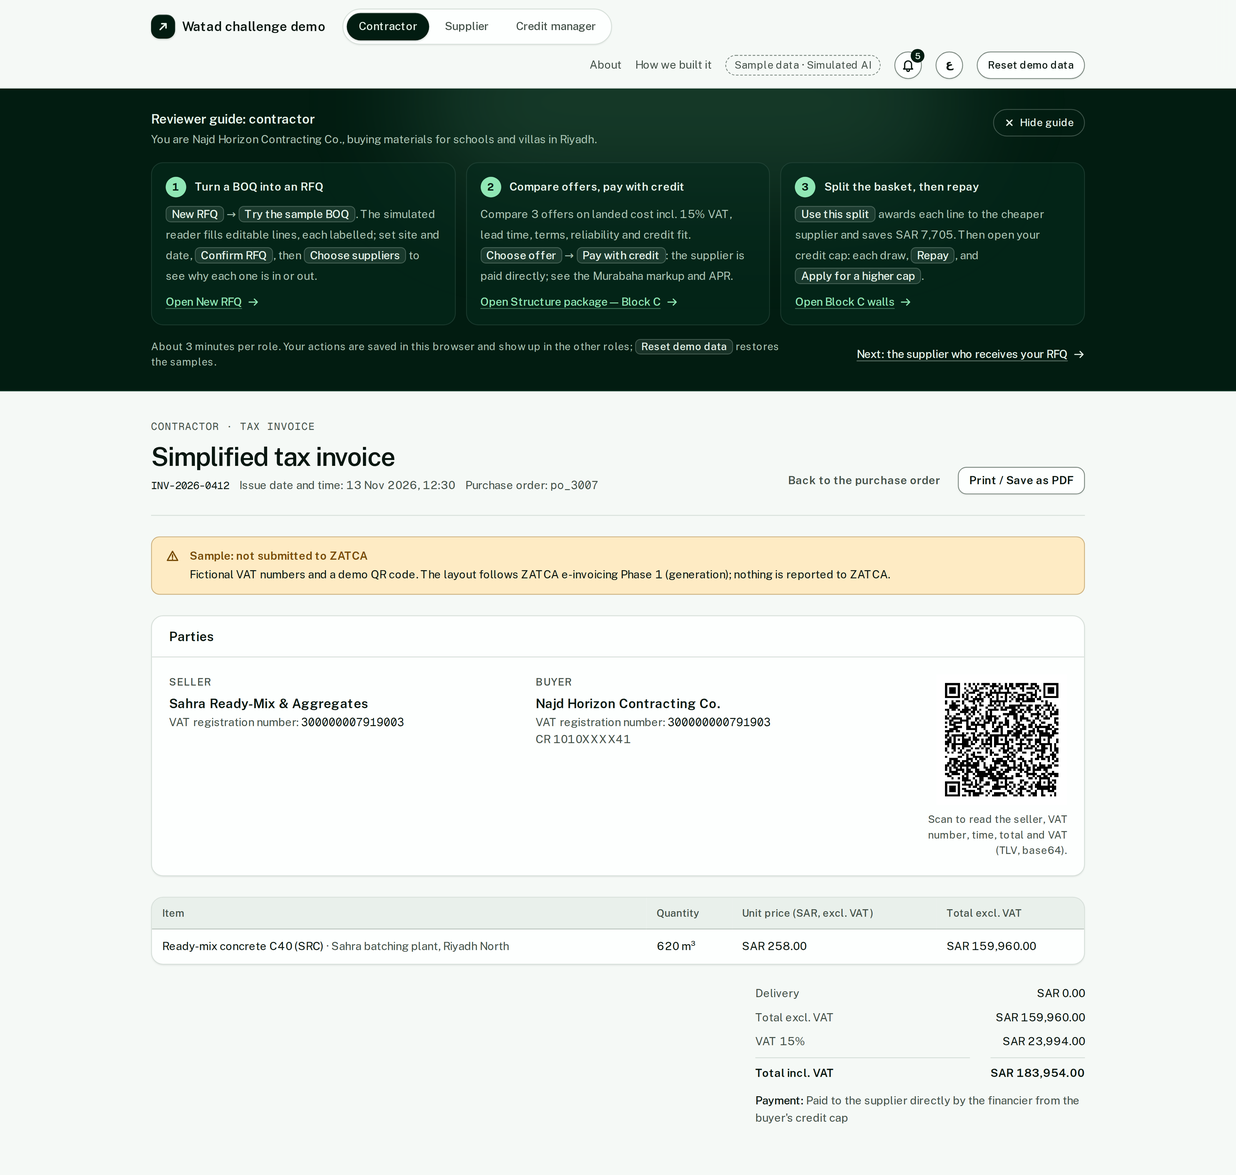
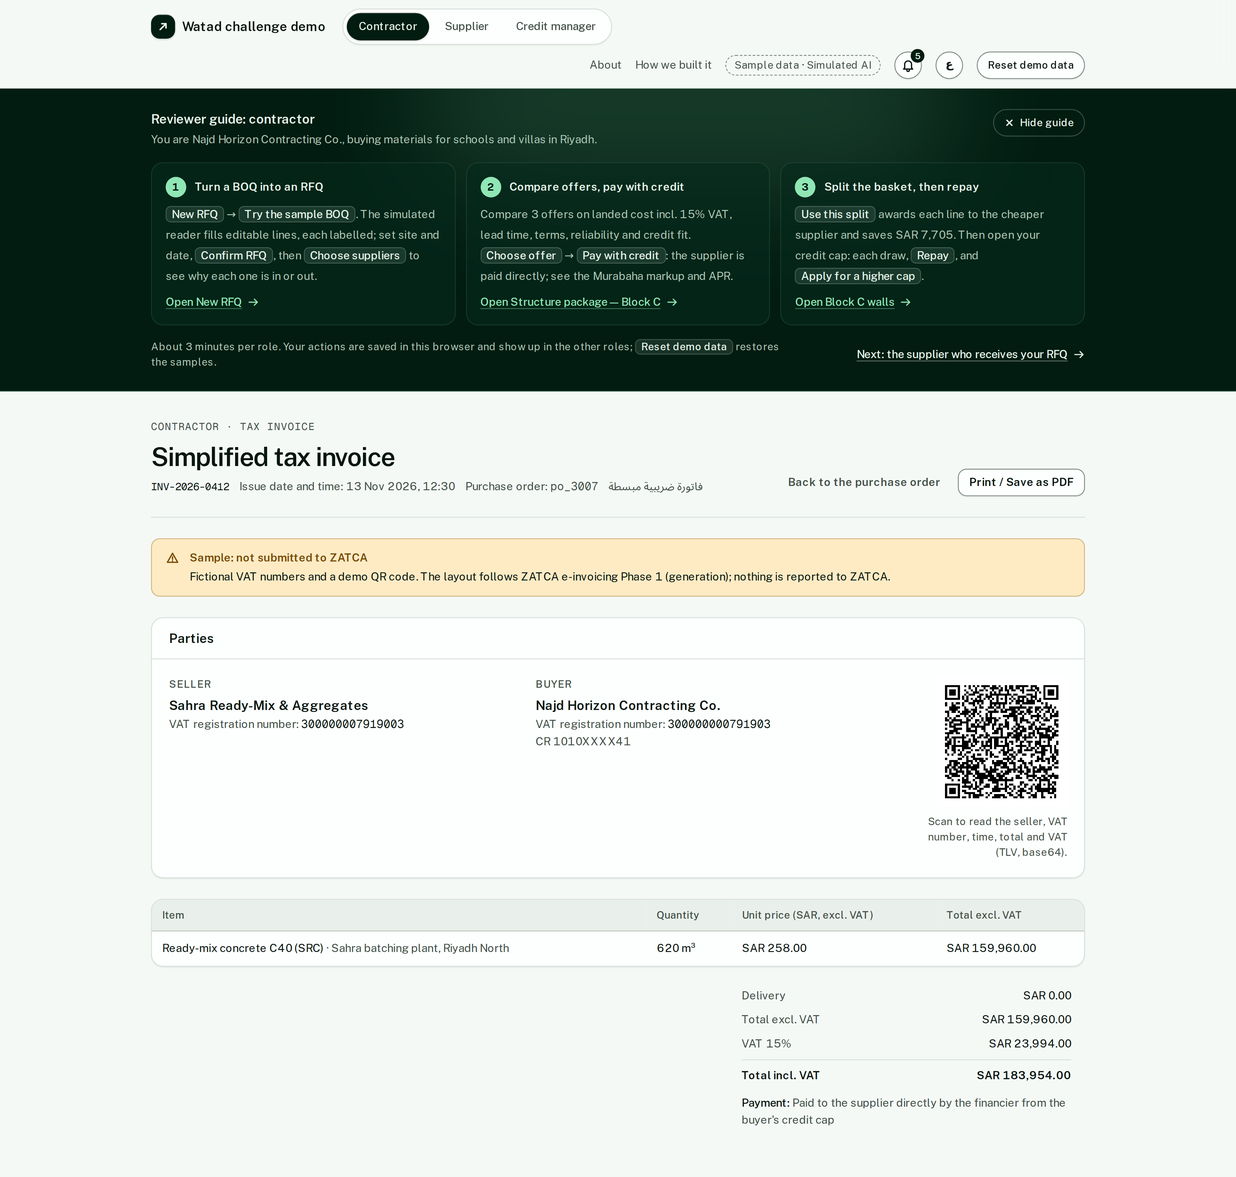
fix(invoice): Layla's review: totals inside the page, one total rule, Arabic percent
- Totals: rows of dt/dd pairs with the table's inline padding, so no
  amount touches the page edge (checked against an A4 width in both
  languages), and one rule above the total spanning the row.
- Arabic «15٪» instead of a Latin % that bidi showed as «%15», in every
  Arabic string of the procurement, supplier and invoice dictionaries.
- Polish: the other language's invoice title in the header (ZATCA
  invoices carry Arabic); Arabic for descriptive seed brands such as
  "Sahra batching plant, Riyadh North" (names stay as written); the sample
  notice prints without its amber fill. CHANGELOG line under Unreleased.

diff --git a/src/i18n/procurement.ts b/src/i18n/procurement.ts
@@ -529,7 +529,7 @@ export const procurement = defineMessages(
     "payment": "الدفع",
     "deliverTo": "التسليم إلى",
     "requiredOnSiteBy": "مطلوب في الموقع بتاريخ",
-    "totalInclVat": "الإجمالي شامل ضريبة القيمة المضافة 15%",
+    "totalInclVat": "الإجمالي شامل ضريبة القيمة المضافة 15٪",
     "totalInclVatShort": "الإجمالي شامل الضريبة",
     "sampleData": "بيانات تجريبية",
     "simulatedAi": "ذكاء اصطناعي محاكى",
@@ -564,7 +564,7 @@ export const procurement = defineMessages(
     "specFor": "مواصفات {item}",
     "quantityFor": "كمية {item}",
     "checkMatch": "يُرجى التحقق من هذه المطابقة",
-    "estimate": "القيمة التقديرية: {total} شاملة ضريبة القيمة المضافة 15%، بالأسعار المرجعية لآخر 90 يومًا (بيانات تجريبية). تحدّد العروض السعر الفعلي.",
+    "estimate": "القيمة التقديرية: {total} شاملة ضريبة القيمة المضافة 15٪، بالأسعار المرجعية لآخر 90 يومًا (بيانات تجريبية). تحدّد العروض السعر الفعلي.",
     "deliveryAndTerms": "التسليم والشروط",
     "project": "المشروع",
     "deliveryCity": "مدينة التسليم",
@@ -585,7 +585,7 @@ export const procurement = defineMessages(
     "draft": "مسودة",
     "scope": "النطاق",
     "lineCount": "البنود: {n}",
-    "estimateLabel": "التقدير شامل ضريبة القيمة المضافة 15%",
+    "estimateLabel": "التقدير شامل ضريبة القيمة المضافة 15٪",
     "fromCreditCap": "من حدك الائتماني",
     "supplierTerms": "شروط المورّد",
     "source": "المصدر",
@@ -621,7 +621,7 @@ export const procurement = defineMessages(
     "deliverBy": "بحلول {date}",
     "lineItems": "البنود",
     "estimateAside": "نحو {total} شامل الضريبة",
-    "estimateNote": "تقدير شامل ضريبة القيمة المضافة 15% بالأسعار المرجعية لآخر 90 يومًا (بيانات تجريبية). تحدّد العروض السعر الفعلي.",
+    "estimateNote": "تقدير شامل ضريبة القيمة المضافة 15٪ بالأسعار المرجعية لآخر 90 يومًا (بيانات تجريبية). تحدّد العروض السعر الفعلي.",
     "creditCap": "الحد الائتماني",
     "available": "المتاح",
     "ofCap": "من {cap}",
@@ -671,8 +671,8 @@ export const procurement = defineMessages(
     "slowResponse": "بطيء الاستجابة: يستغرق عادة نحو {hours} ساعة",
     "noPriceHistory": "لا يوجد سجل أسعار مقابل المرجع لآخر 90 يومًا بعد",
     "priceInLine": "يسعّر عادة بما يتماشى مع المرجع لآخر 90 يومًا",
-    "priceBelow": "يسعّر عادة أقل من المرجع لآخر 90 يومًا بنسبة {pct}%",
-    "priceAbove": "يسعّر عادة أعلى من المرجع لآخر 90 يومًا بنسبة {pct}%",
+    "priceBelow": "يسعّر عادة أقل من المرجع لآخر 90 يومًا بنسبة {pct}٪",
+    "priceAbove": "يسعّر عادة أعلى من المرجع لآخر 90 يومًا بنسبة {pct}٪",
     "noCreditAcceptance": "لا يقبل ائتمان المنصة؛ ستدفع لهذا المورّد مباشرة",
     "creditNoCap": "يقبل ائتمان المنصة (لا يوجد لديك حد ائتماني معتمد بعد)",
     "creditOver": "يقبل ائتمان المنصة، لكن هذا الطلب (نحو {estimate} شامل الضريبة) يتجاوز حدك المتاح البالغ {available}",
@@ -689,11 +689,11 @@ export const procurement = defineMessages(
     "empty": "لا توجد عروض (عطاءات) بعد. يرى الموردون المدعوون هذا الطلب في صندوق الوارد، وتظهر العروض هنا عند ردّهم.",
     "emptyTitle": "العروض",
     "blindToggle": "دون أسماء: إخفاء أسماء الموردين",
-    "explainer": "مرتّبة حسب التكلفة حتى الموقع شاملة التوصيل وضريبة القيمة المضافة 15% (تحصل عروض صنع في السعودية على أفضلية المحتوى المحلي 10% في الترتيب فقط)، والتغطية، ومدة التوريد مقارنة بتاريخك، وشروط الدفع، وموثوقية المورّد. وتُقارَن الأسعار بالمرجع لآخر 90 يومًا (بيانات تجريبية).",
+    "explainer": "مرتّبة حسب التكلفة حتى الموقع شاملة التوصيل وضريبة القيمة المضافة 15٪ (تحصل عروض صنع في السعودية على أفضلية المحتوى المحلي 10٪ في الترتيب فقط)، والتغطية، ومدة التوريد مقارنة بتاريخك، وشروط الدفع، وموثوقية المورّد. وتُقارَن الأسعار بالمرجع لآخر 90 يومًا (بيانات تجريبية).",
     "blindLabel": "المورّد {letters}",
     "caption": "عروض {rfq}، الأعلى درجة أولًا",
     "offer": "العرض",
-    "landedCost": "التكلفة حتى الموقع شاملة الضريبة 15%",
+    "landedCost": "التكلفة حتى الموقع شاملة الضريبة 15٪",
     "coverage": "التغطية",
     "leadTime": "مدة التوريد",
     "paymentTerms": "شروط الدفع",
@@ -704,7 +704,7 @@ export const procurement = defineMessages(
     "chosen": "مُختار",
     "inclDelivery": "شامل التوصيل {fee}",
     "linesInFull": "{covered} من {requested} بنود كاملة",
-    "ofRequestedValue": "{pct}% من القيمة المطلوبة",
+    "ofRequestedValue": "{pct}٪ من القيمة المطلوبة",
     "days": "{n} يوم",
     "inTime": "في الموعد",
     "late": "متأخر {n}",
@@ -714,7 +714,7 @@ export const procurement = defineMessages(
     "overCap": "يتجاوز حدك الائتماني بمبلغ {amount}",
     "showScore": "كيف تتكوّن الدرجة {score}",
     "hideScore": "إخفاء تفاصيل الدرجة",
-    "breakdownSum": "المواد {goods} + التوصيل {delivery} + الضريبة 15% {vat} = {total}",
+    "breakdownSum": "المواد {goods} + التوصيل {delivery} + الضريبة 15٪ {vat} = {total}",
     "badges": {
       "best": "أعلى درجة إجمالية",
       "lowest_landed_cost": "أقل تكلفة حتى الموقع",
@@ -733,9 +733,9 @@ export const procurement = defineMessages(
     "notes": {
       "lowestCost": "أقل تكلفة مُقيَّمة",
       "aboveLowest": "أعلى من أقل تكلفة مُقيَّمة بنسبة {pct}",
-      "afterPreference": " (بعد أفضلية المحتوى المحلي 10%)",
+      "afterPreference": " (بعد أفضلية المحتوى المحلي 10٪)",
       "fullCoverage": "يغطي الكمية كاملة لكل البنود",
-      "partialCoverage": "يغطي {pct}% من القيمة المطلوبة ({covered} من {requested} بنود كاملة)",
+      "partialCoverage": "يغطي {pct}٪ من القيمة المطلوبة ({covered} من {requested} بنود كاملة)",
       "inTime": "مدة التوريد {days} يوم، في الموعد لتاريخ حاجتك",
       "late": "مدة التوريد {days} يوم، بعد تاريخ حاجتك",
       "newSupplier": "جديد على المنصة، السجل لا يكفي للتقييم",
@@ -760,7 +760,7 @@ export const procurement = defineMessages(
     "one": "مسودة أمر الشراء",
     "many": "مسودات أوامر الشراء ({n})",
     "breakdown": "{goods} + توصيل {delivery} + ضريبة {vat}",
-    "total": "الإجمالي {total} شامل ضريبة القيمة المضافة 15%",
+    "total": "الإجمالي {total} شامل ضريبة القيمة المضافة 15٪",
     "payment": "الدفع",
     "payCredit": "الدفع من الحد الائتماني: يُدفع للمورّد مباشرة",
     "payBank": "تحويل بنكي للمورّد وفق شروطه المتفق عليها",
@@ -791,7 +791,7 @@ export const procurement = defineMessages(
     "announce": "{title}: {ids}، والإجمالي {total} شامل الضريبة.",
     "methodCredit": "الدفع من الحد الائتماني (يُدفع للمورّد مباشرة)",
     "methodBank": "تحويل بنكي",
-    "total": "الإجمالي {total} شامل ضريبة القيمة المضافة 15%",
+    "total": "الإجمالي {total} شامل ضريبة القيمة المضافة 15٪",
     "poNumber": "رقم أمر الشراء",
     "expectedOnSite": "الوصول المتوقع إلى الموقع",
     "creditDraw": "سحب ائتماني: تسدّد {repay} بحلول {due}",
@@ -829,7 +829,7 @@ export const procurement = defineMessages(
     "expectedDelivery": "التسليم المتوقع",
     "goods": "المواد",
     "delivery": "التوصيل",
-    "vat": "ضريبة القيمة المضافة 15%",
+    "vat": "ضريبة القيمة المضافة 15٪",
     "paymentCredit": "الدفع من الحد الائتماني، ويُدفع للمورّد مباشرة",
     "creditDrawTitle": "السحب الائتماني (مرابحة)",
     "drawn": "المسحوب من الحد الائتماني",

diff --git a/src/components/invoice/tax-invoice.tsx b/src/components/invoice/tax-invoice.tsx
@@ -69,7 +69,7 @@ export function TaxInvoice({ poId, viewer }: { poId: string; viewer: "contractor
           const line = rfq.lines.find((l) => l.id === ol.rfqLineId);
           if (!line) return [];
           const qty = Math.min(line.quantity, ol.quantityAvailable);
-          return [{ id: ol.rfqLineId, name: i.lineName(line), brand: ol.brand, qty: i.qty(qty, line.unit), unit: ol.unitPrice, total: Math.round(ol.unitPrice * qty) as Halalas }];
+          return [{ id: ol.rfqLineId, name: i.lineName(line), brand: i.seedText(ol.brand), qty: i.qty(qty, line.unit), unit: ol.unitPrice, total: Math.round(ol.unitPrice * qty) as Halalas }];
         })
       : [];
 
@@ -100,6 +100,10 @@ export function TaxInvoice({ poId, viewer }: { poId: string; viewer: "contractor
             <span>
               {m.poRef}: <bdi className="font-mono">{po.id}</bdi>
             </span>
+            {/* ZATCA invoices carry Arabic: in English the Arabic title rides along, and the reverse. */}
+            <span lang={i.ar ? "en" : "ar"} dir={i.ar ? "ltr" : "rtl"} data-testid="invoice-title-alt">
+              {i.ar ? invoice.en.title : invoice.ar.title}
+            </span>
           </>
         }
         actions={
@@ -113,7 +117,7 @@ export function TaxInvoice({ poId, viewer }: { poId: string; viewer: "contractor
         {m.title} {number}
       </h2>
 
-      <div data-testid="invoice-sample">
+      <div data-testid="invoice-sample" className="print:[&>*]:bg-transparent print:[&>*]:shadow-none">
         <Alert tone="caution" title={m.sample}>
           {m.sampleBody}
         </Alert>
@@ -163,24 +167,30 @@ export function TaxInvoice({ poId, viewer }: { poId: string; viewer: "contractor
         </tbody>
       </Table>
 
-      <div className="flex flex-col items-end gap-3">
-        <dl className="grid w-full max-w-sm grid-cols-[1fr_auto] gap-x-6 gap-y-2 text-sm [&_dt]:whitespace-nowrap" data-testid="invoice-totals">
-          <dt className="text-ink-muted">{m.delivery}</dt>
-          <dd className="text-end tabular-nums">
-            <bdi>{i.f.money(po.deliveryFee)}</bdi>
-          </dd>
-          <dt className="text-ink-muted">{m.subtotal}</dt>
-          <dd className="text-end tabular-nums">
-            <bdi>{i.f.money(net)}</bdi>
-          </dd>
-          <dt className="text-ink-muted">{m.vat}</dt>
-          <dd className="text-end tabular-nums" data-testid="invoice-vat">
-            <bdi>{i.f.money(po.vat)}</bdi>
-          </dd>
-          <dt className="border-t border-line pt-2 font-semibold text-ink">{m.total}</dt>
-          <dd className="border-t border-line pt-2 text-end font-semibold tabular-nums text-ink" data-testid="invoice-total">
-            <bdi>{i.f.money(po.totalInclVat)}</bdi>
-          </dd>
+      {/* Rows of dt/dd pairs (valid dl children): the total's rule spans the whole row, and the block
+          keeps the table's inline padding so amounts never touch the page edge in either direction. */}
+      <div className="flex flex-col items-end gap-3 px-4">
+        <dl className="w-full max-w-sm space-y-2 text-sm" data-testid="invoice-totals">
+          {(
+            [
+              [m.delivery, po.deliveryFee, undefined],
+              [m.subtotal, net, undefined],
+              [m.vat, po.vat, "invoice-vat"],
+            ] as const
+          ).map(([label, amount, testId]) => (
+            <div key={label} className="flex items-baseline justify-between gap-6">
+              <dt className="text-ink-muted">{label}</dt>
+              <dd className="whitespace-nowrap text-end tabular-nums" data-testid={testId}>
+                <bdi>{i.f.money(amount)}</bdi>
+              </dd>
+            </div>
+          ))}
+          <div className="flex items-baseline justify-between gap-6 border-t border-line pt-2 font-semibold text-ink">
+            <dt>{m.total}</dt>
+            <dd className="whitespace-nowrap text-end tabular-nums" data-testid="invoice-total">
+              <bdi>{i.f.money(po.totalInclVat)}</bdi>
+            </dd>
+          </div>
         </dl>
         <p className="w-full max-w-sm text-sm text-ink-muted" data-testid="invoice-payment">
           <span className="font-medium text-ink">{m.payment}:</span> {po.paymentMethod === "platform_credit" ? m.paidFromCap : m.bankTransfer}

diff --git a/src/i18n/supplier.ts b/src/i18n/supplier.ts
@@ -240,10 +240,10 @@ export const supplier = defineMessages(
     "paymentTerms": "شروط الدفع",
     "validDays": "مدة صلاحية العرض (أيام)",
     "madeInSaudi": "صنع في السعودية (محتوى محلي)",
-    "madeInSaudiHint": "يُحتسب ضمن أفضلية المحتوى المحلي 10% عند ترتيب المقاول للعروض.",
+    "madeInSaudiHint": "يُحتسب ضمن أفضلية المحتوى المحلي 10٪ عند ترتيب المقاول للعروض.",
     "notes": "ملاحظات للمقاول",
     "optional": "اختياري",
-    "summary": "المواد {goods} + التوصيل {delivery} + الضريبة 15% {vat} = {total}",
+    "summary": "المواد {goods} + التوصيل {delivery} + الضريبة 15٪ {vat} = {total}",
     "submit": "إرسال العرض",
     "vsInLine": "سعر المواد في عرضك متماشٍ مع السعر المرجعي لآخر 90 يومًا لهذه الكميات. ويرى المقاولون هذه المقارنة.",
     "vsAbove": "سعر المواد في عرضك أعلى من السعر المرجعي لآخر 90 يومًا لهذه الكميات بنسبة {pct}٪. ويرى المقاولون هذه المقارنة.",

diff --git a/src/components/procurement/use-procurement-i18n.ts b/src/components/procurement/use-procurement-i18n.ts
@@ -10,7 +10,7 @@ import { fill } from "@/i18n/core";
 import { useFormat, useLocale, useMessages } from "@/i18n/locale";
 import { procurement } from "@/i18n/procurement";
 import { supplier } from "@/i18n/supplier";
-import { offers as seedOffers, purchaseOrders as seedPurchaseOrders, reference, rfqs as seedRfqs } from "@/data";
+import { offers as seedOffers, purchaseOrders as seedPurchaseOrders, reference, rfqs as seedRfqs, seedBrandAr } from "@/data";
 import type { City, MaterialCategory, PaymentTerms, Rfq, RfqLine, Unit } from "@/domain/types";
 
 type Named = { name: string; nameAr?: string | undefined };
@@ -30,6 +30,7 @@ for (const r of seedRfqs) {
   addSeed(r.notes, r.notesAr);
 }
 for (const o of seedOffers) addSeed(o.notes, o.notesAr);
+for (const [en, ar] of Object.entries(seedBrandAr)) addSeed(en, ar);
 for (const po of seedPurchaseOrders) for (const e of po.timeline) addSeed(e.note, e.noteAr);
 
 /** Find which English message `text` is, so logic-produced text can be shown in the reader's locale. */

diff --git a/src/data/procurement.ts b/src/data/procurement.ts
@@ -462,4 +462,18 @@ const po1039 = (() => {
   return po;
 })();
 
+/**
+ * Arabic for the seed offer lines whose "brand" is a description rather than a company or brand
+ * name (names such as "Saudi Cement" stay as written). Used by the UI's seed lookup.
+ */
+export const seedBrandAr: Record<string, string> = {
+  Imported: "مستورد",
+  "Imported (Türkiye)": "مستورد (تركيا)",
+  "Imported clinker blend": "خليط كلنكر مستورد",
+  "Imported porcelain (India)": "بورسلان مستورد (الهند)",
+  "Local block factories": "مصانع بلوك محلية",
+  "Own batching plants (Riyadh South, Riyadh North)": "محطات خلط خاصة (جنوب الرياض، شمال الرياض)",
+  "Sahra batching plant, Riyadh North": "محطة خلط صحراء، شمال الرياض",
+};
+
 export const purchaseOrders: PurchaseOrder[] = [po1039, po1038];

diff --git a/src/components/procurement/po-detail.tsx b/src/components/procurement/po-detail.tsx
@@ -188,7 +188,7 @@ export function PoDetail({ poId, viewer = "contractor" }: { poId: string; viewer
                     return (
                       <li key={ol.rfqLineId} className="flex flex-col gap-0.5 sm:flex-row sm:justify-between sm:gap-3">
                         <span className="text-ink">
-                          {i.lineName(line)} <span className="text-ink-muted">· {ol.brand}</span>
+                          {i.lineName(line)} <span className="text-ink-muted">· {i.seedText(ol.brand)}</span>
                         </span>
                         <span className="whitespace-nowrap tabular-nums text-ink-muted">
                           <bdi>{i.qty(Math.min(line.quantity, ol.quantityAvailable), line.unit)}</bdi> × <bdi>{i.f.money(ol.unitPrice)}</bdi>

diff --git a/src/i18n/invoice.ts b/src/i18n/invoice.ts
@@ -63,7 +63,7 @@ export const invoice = defineMessages(
     lineTotal: "الإجمالي دون الضريبة",
     delivery: "التوصيل",
     subtotal: "الإجمالي دون الضريبة",
-    vat: "ضريبة القيمة المضافة 15%",
+    vat: "ضريبة القيمة المضافة 15٪",
     total: "الإجمالي شامل الضريبة",
     payment: "الدفع",
     paidFromCap: "دُفعت للمورّد مباشرة من الجهة الممولة من الحد الائتماني للمشتري",

diff --git a/CHANGELOG.md b/CHANGELOG.md
@@ -7,6 +7,7 @@ All notable changes, grouped by release. Issue and PR numbers refer to github.co
 _Changes merged after this section was written are listed here and folded into 1.0.0 when it is tagged at the 12:20 UTC freeze._
 
 - Link previews and icons: a 1200×630 share card (headline, the Arabic line, the three roles) on every page, a title and description per page in English and Arabic (the browser tab follows the language toggle), a favicon, an Apple touch icon and an install manifest in the pine and paper of the design language (#138).
+- Printable PO and a simplified tax invoice: "Print / Save as PDF" on A4 with the VAT breakdown, both parties' VAT numbers and the payment method (incl. paid from the credit cap); the tax invoice carries the ZATCA Phase 1 QR (seller, VAT number, time, total and VAT as TLV, generated in the browser) and is clearly labelled "Sample: not submitted to ZATCA" with fictional VAT numbers; English and Arabic (#146).
 
 ## 1.0.0 · 2026-11-19
 
